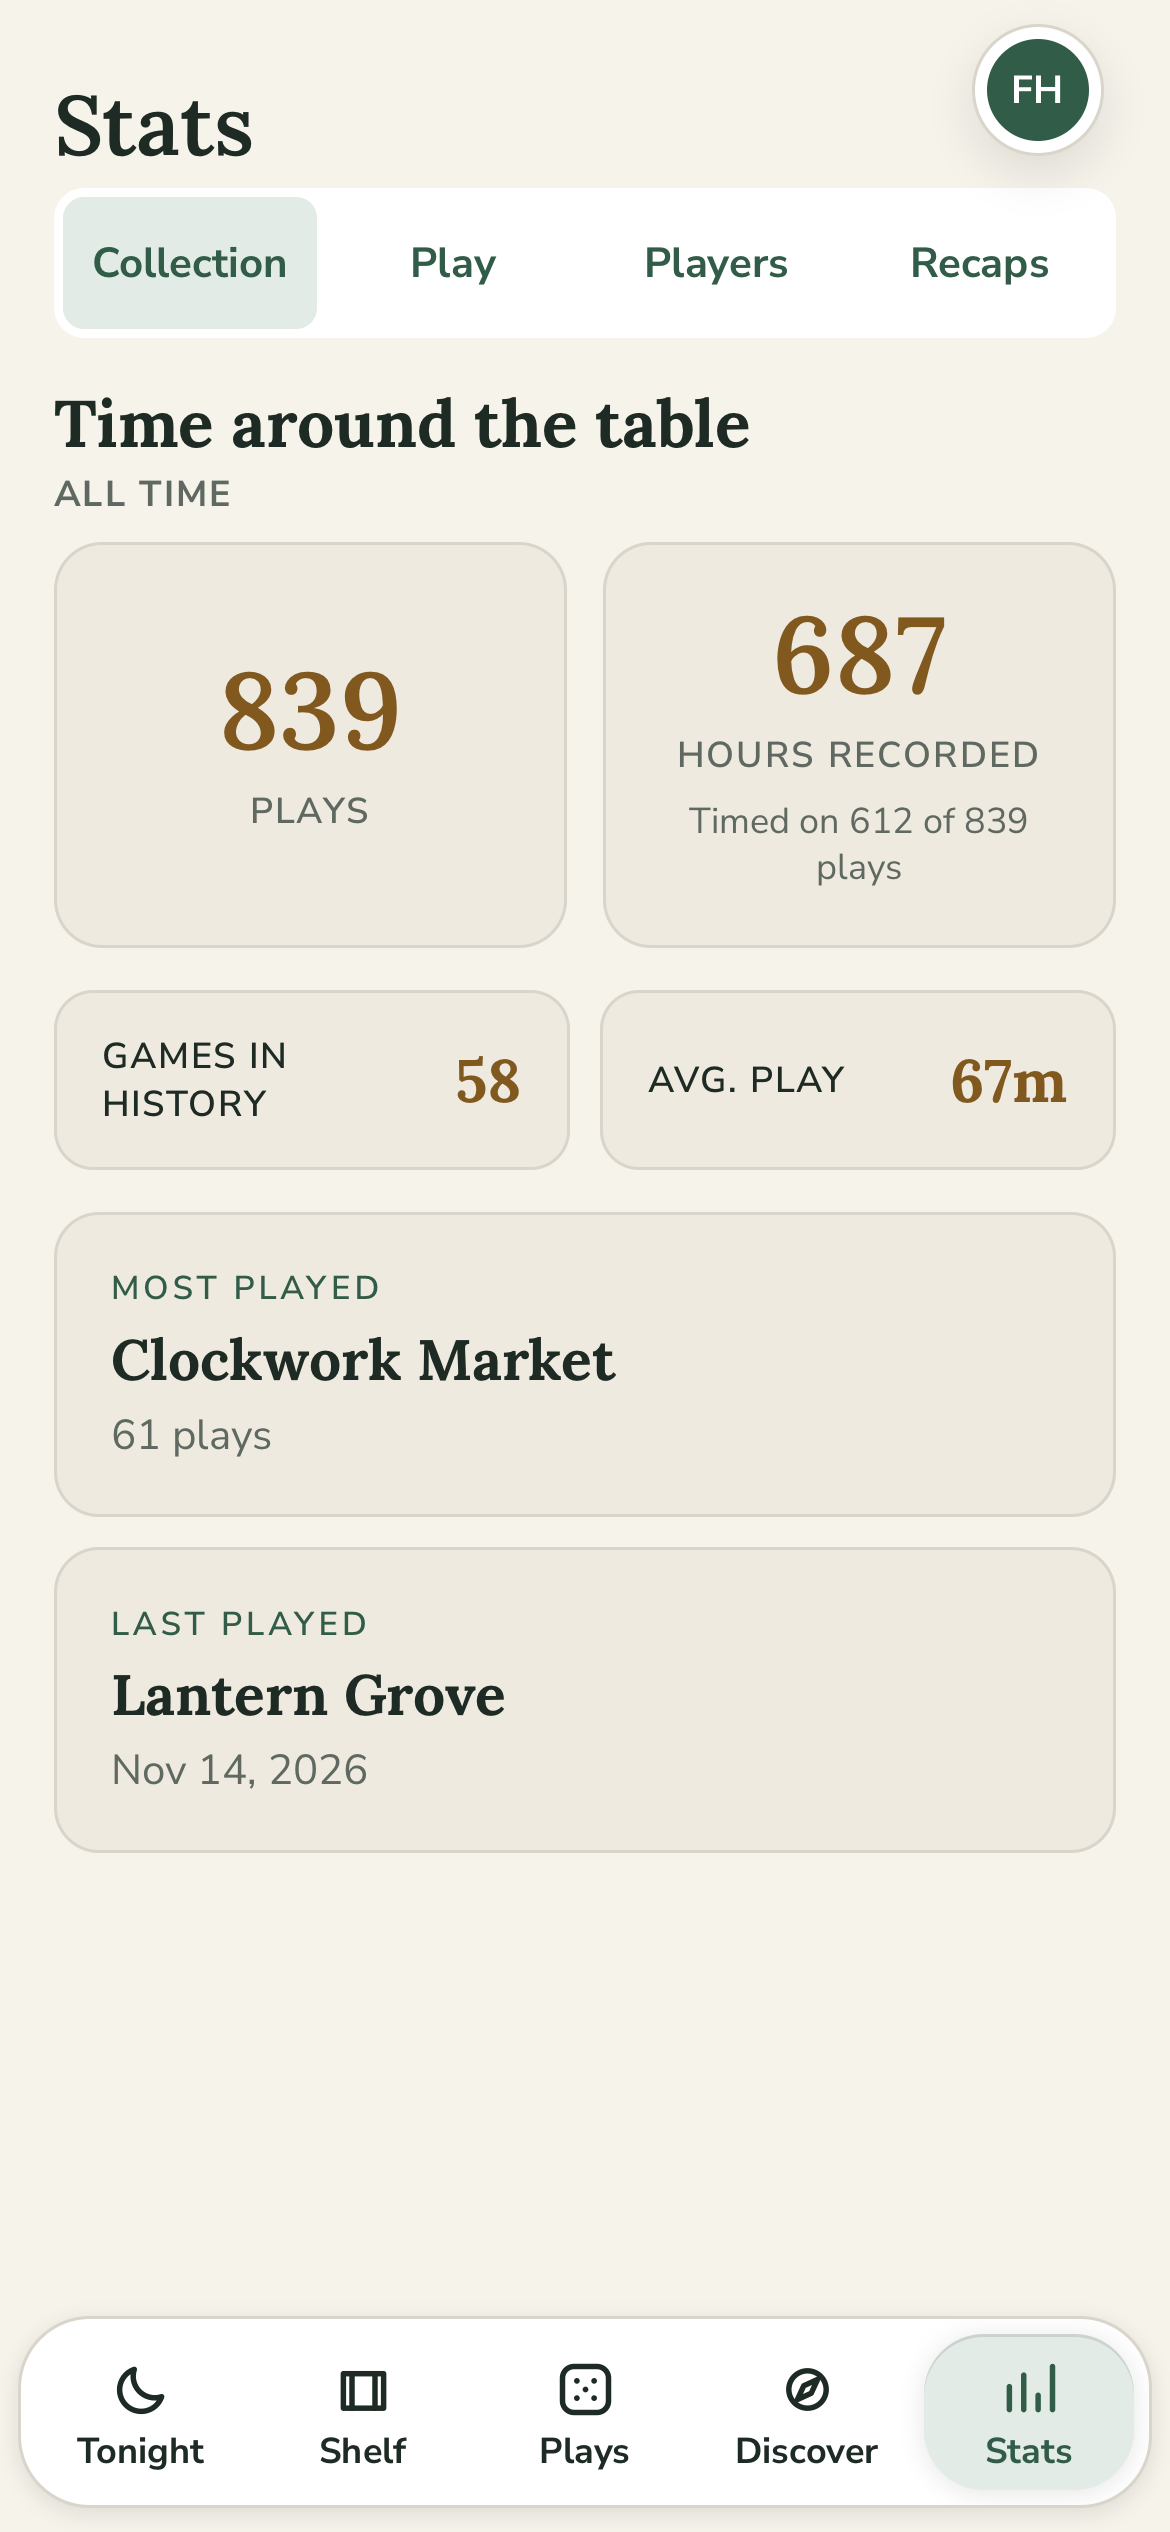
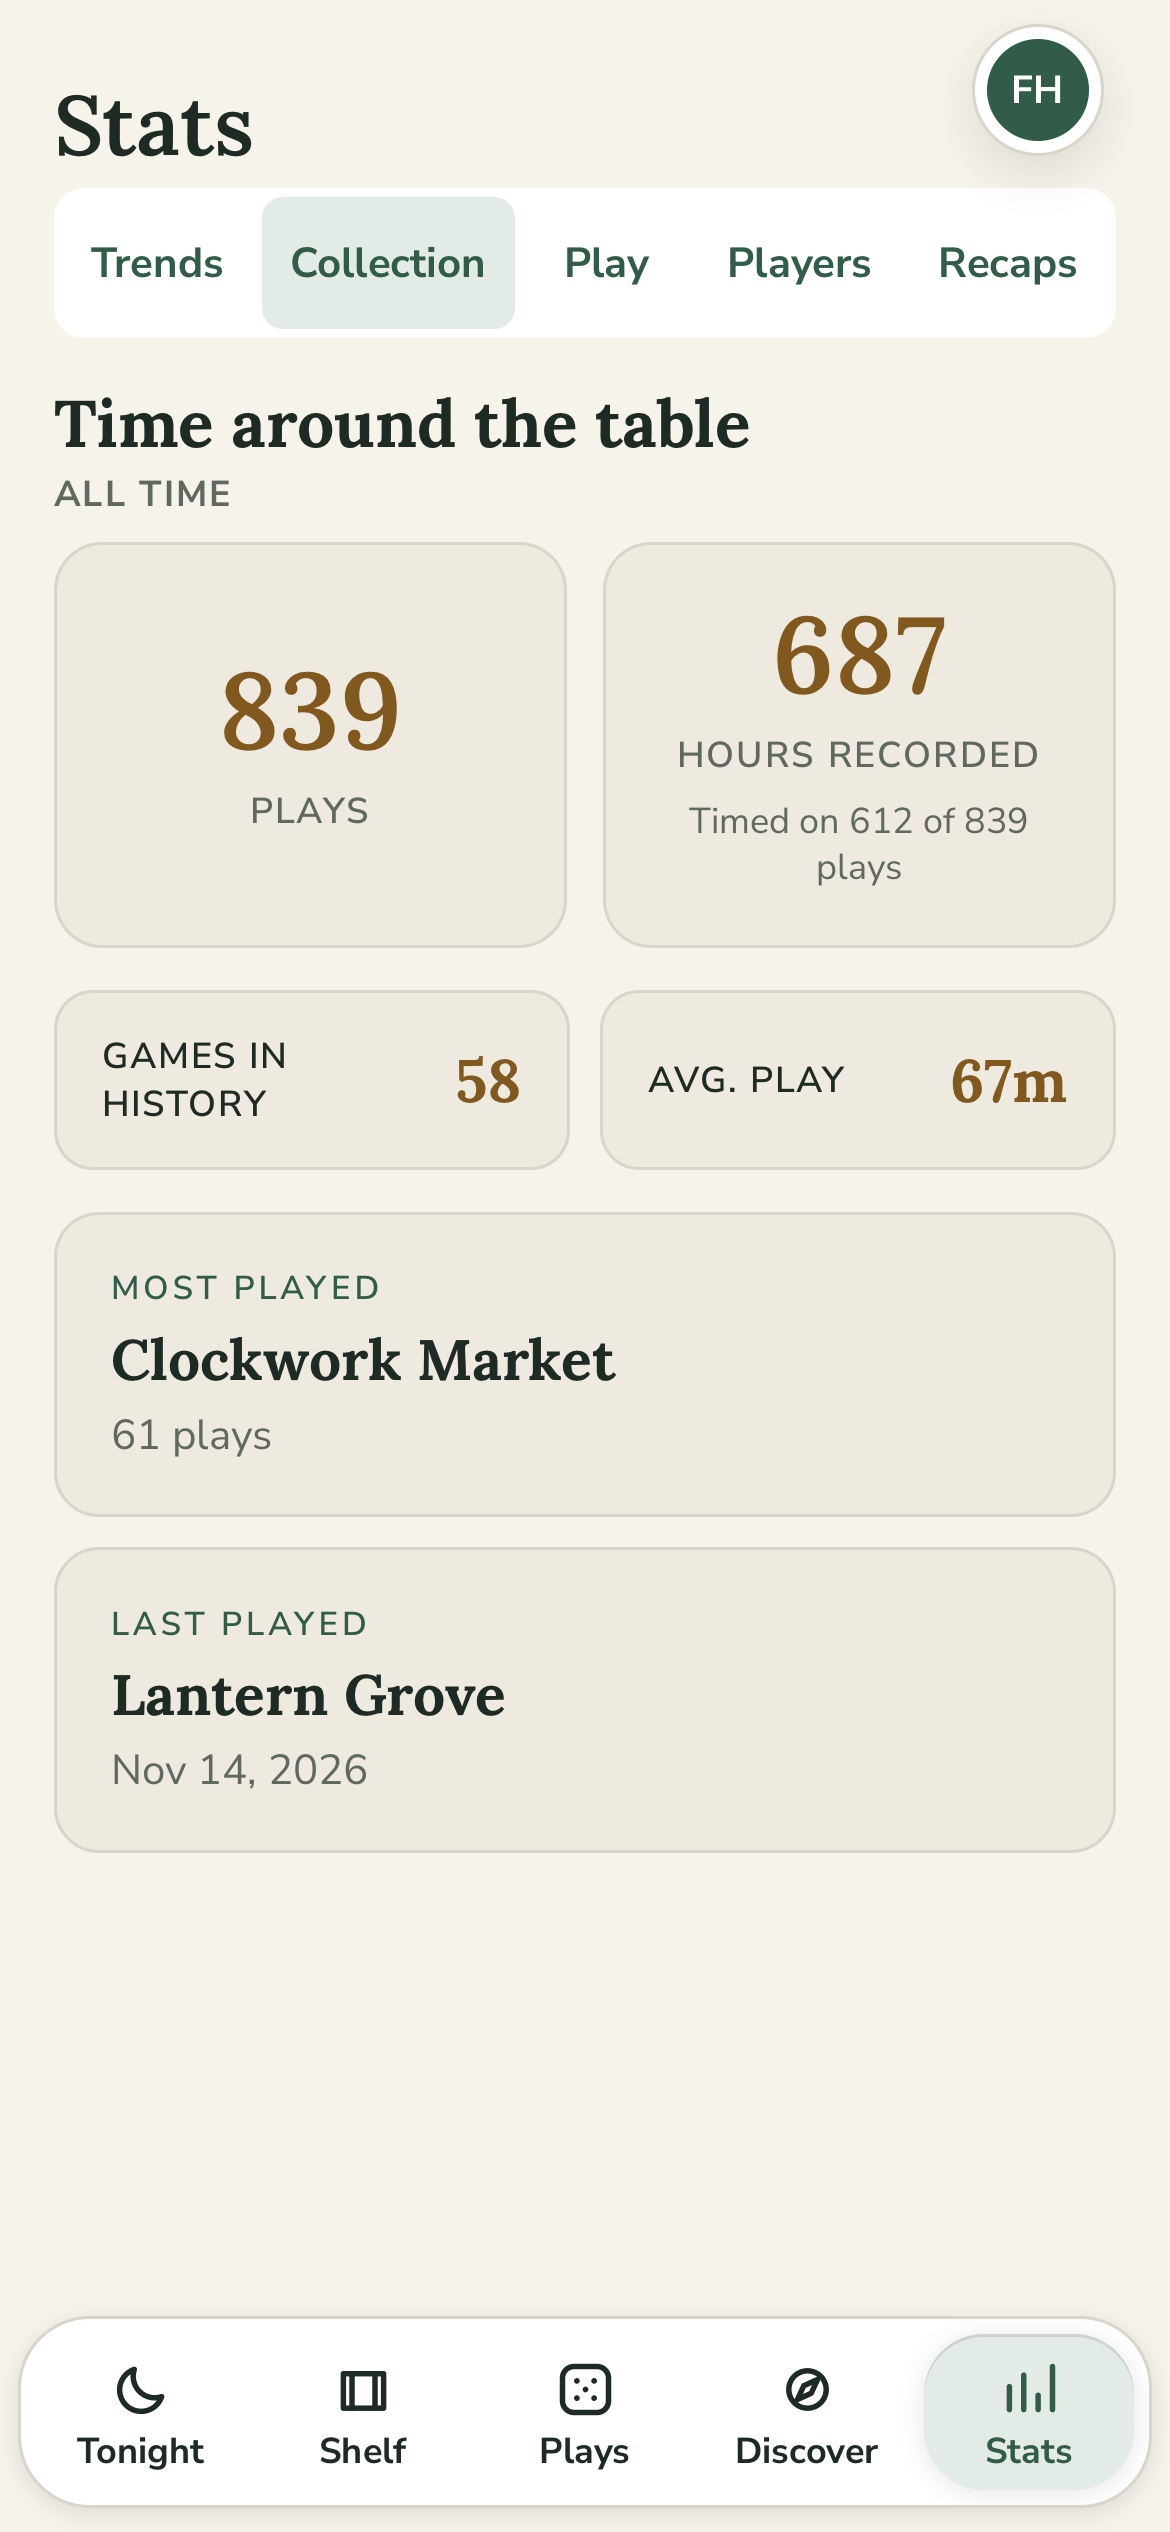
SP-STATS-01: record post-merge Playwright run

Changed region(s): [[0.0308, 0.0624, 0.4615, 0.156], [0.4923, 0.0936, 0.7385, 0.1248], [0.7692, 0.0936, 0.9231, 0.1248]]

diff --git a/docs/SP-STATS-01-REPORT.md b/docs/SP-STATS-01-REPORT.md
@@ -69,7 +69,7 @@ while loading; marks use the brand token. The Stats section tabs now wrap
 
 | Layer | Result |
 | --- | --- |
-| Re-check after merging `origin/main` c768e16 (SP-SETTINGS-01), 18 Nov | Only conflict: the `npm test` list in `frontend/package.json` (stats tests combined with `tip-jar`, `feedback`). Backend `pytest` 593 passed, 16 skipped, one Alembic head `b8d2f4a6c1e3`, `alembic check` clean. Frontend `npm test` 225 passed, lint, build, `check:pwa` pass. Playwright and Simulator not re-run after the merge. |
+| Re-check after merging `origin/main` c768e16 (SP-SETTINGS-01), 18 Nov | Only conflict: the `npm test` list in `frontend/package.json` (stats tests combined with `tip-jar`, `feedback`). Backend `pytest` 593 passed, 16 skipped, one Alembic head `b8d2f4a6c1e3`, `alembic check` clean. Frontend `npm test` 225 passed, lint, build, `check:pwa` pass. Playwright `stats-trends` and `ui-stats` re-run after the merge: 12 passed (iPhone 15 project; the iPhone SE project skips these specs). Simulator not re-run after the merge. |
 | Backend automated | `pytest`: 541 passed, 15 skipped (disposable DB `shelfpick_stats01_test`, migrated to head, 25 built-in sheets seeded). `alembic check`: no drift. |
 | 10,000-play budget (local PostgreSQL) | plays-per-month 2 ms, heatmap 1 ms, H-index 2 ms, streak 2 ms, records 53 ms, head-to-head 83 ms, filtered records 18 ms, filter-options 6 ms, Picker boosts 2 ms (limit 500 ms) |
 | Frontend automated | `npm test` 208 passed incl. `stats-model`, `stats-contrast` (light, dark, black: bars and every heatmap level >= 3:1, chart text >= 4.5:1) and `stats-trends` (tables, locked preview, Pro-only toggle); `npm run lint`, `npm run build` (with `VITE_API_BASE_URL`), `npm run check:pwa` pass |
